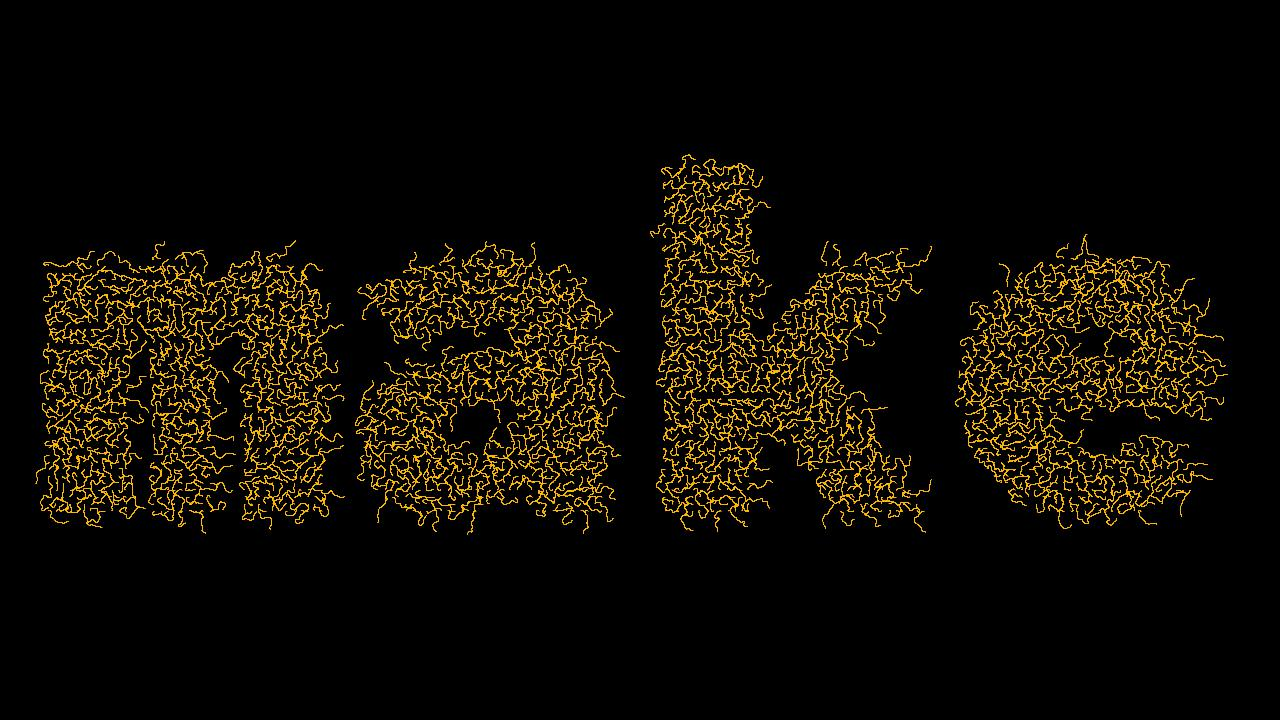
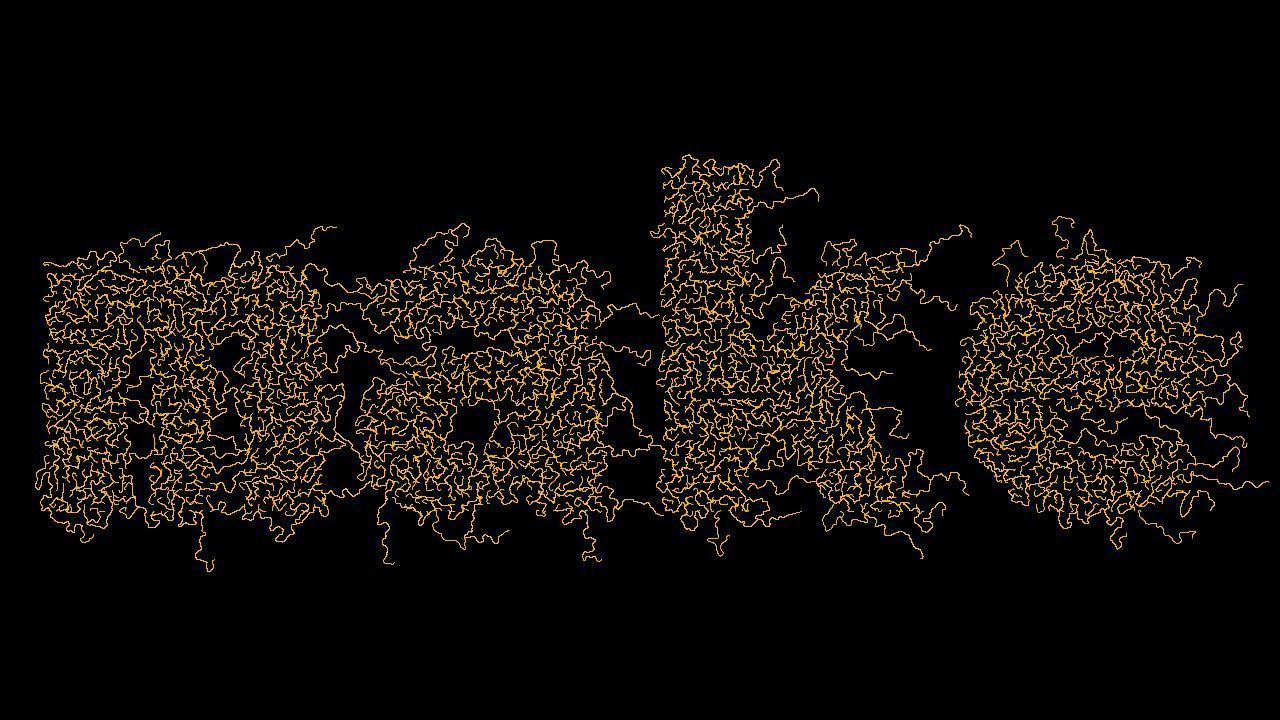
upped the vector scale just a bit for final product

diff --git a/001/generate-lines.py b/001/generate-lines.py
@@ -18,7 +18,7 @@ b = a.load()
 input = Image.open('make.png')
 bin = input.load()
 
-vector_scale = 0.015
+vector_scale = 0.05
 timer = 0
 
 initial = []
@@ -65,7 +65,6 @@ input = Image.open('art.png')
 bin = input.load()
 
 colors = [(232, 63, 11)]
-vector_scale = 0.015
 timer = 0
 
 initial = []
@@ -105,7 +104,7 @@ input = Image.open('with.png')
 bin = input.load()
 
 colors = [(34, 116, 165)]
-vector_scale = 0.015
+
 timer = 0
 
 initial = []
@@ -145,7 +144,7 @@ input = Image.open('python.png')
 bin = input.load()
 
 colors = [(220, 220, 221)]
-vector_scale = 0.03
+
 timer = 0
 
 initial = []
